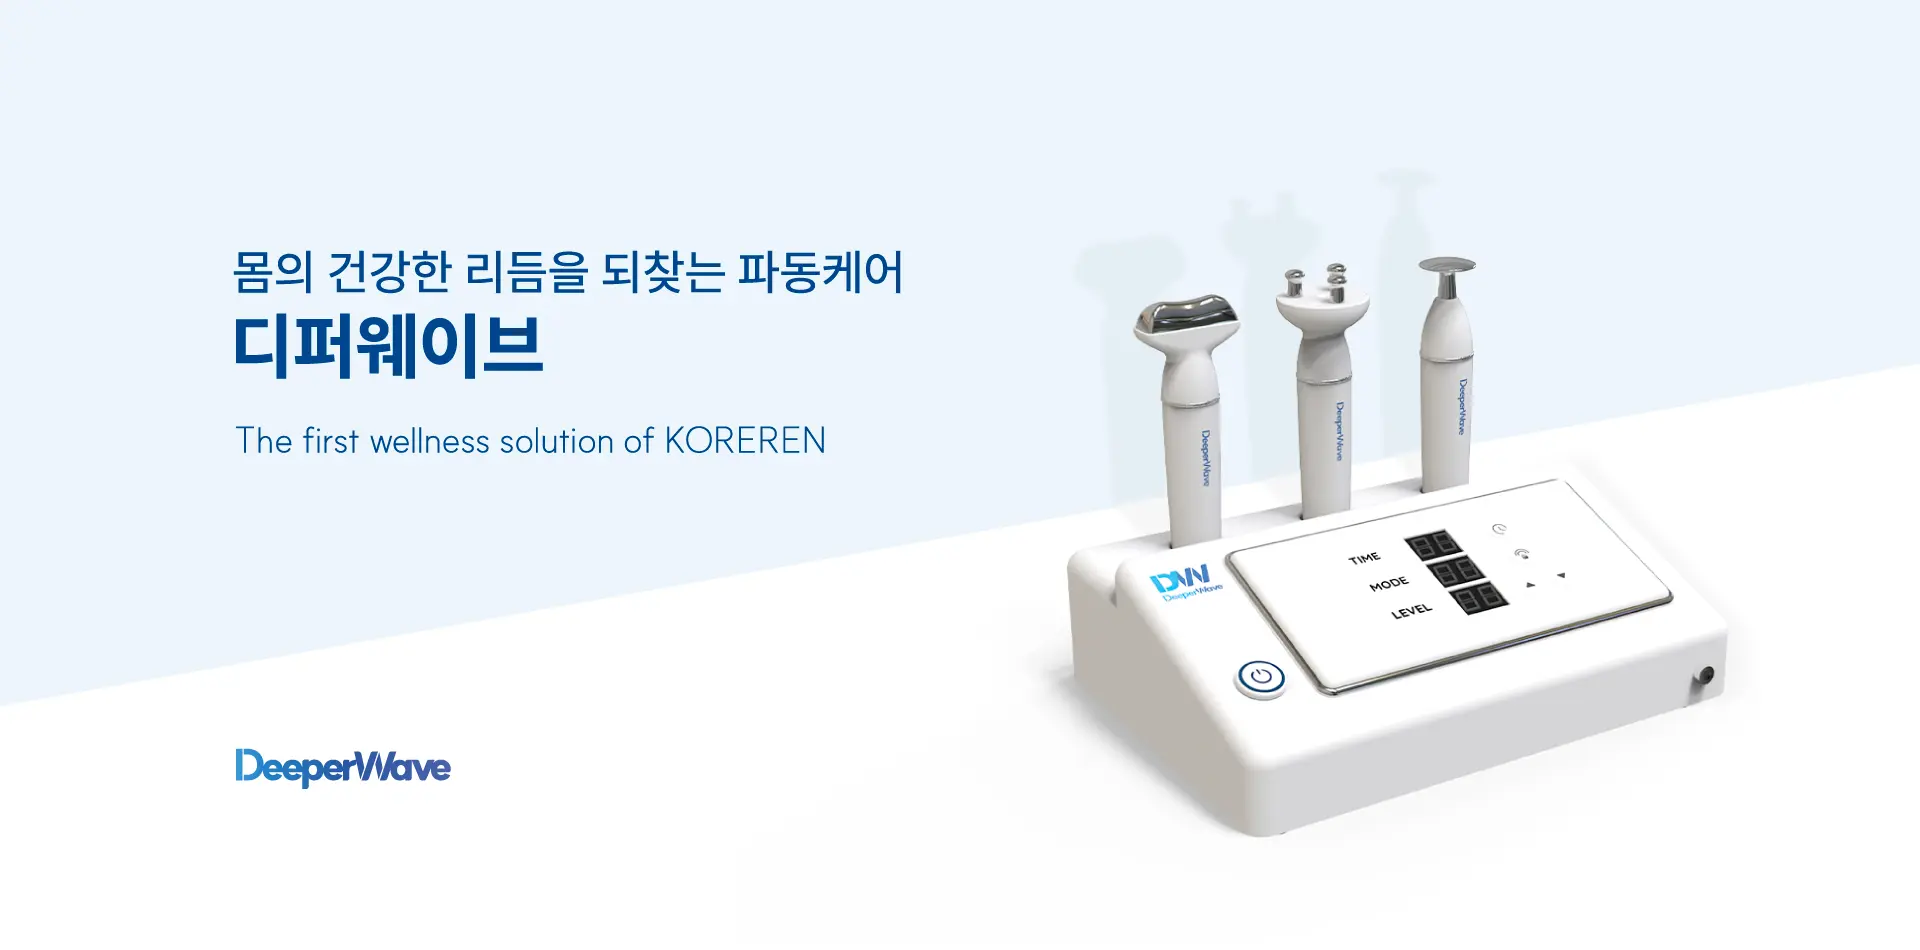
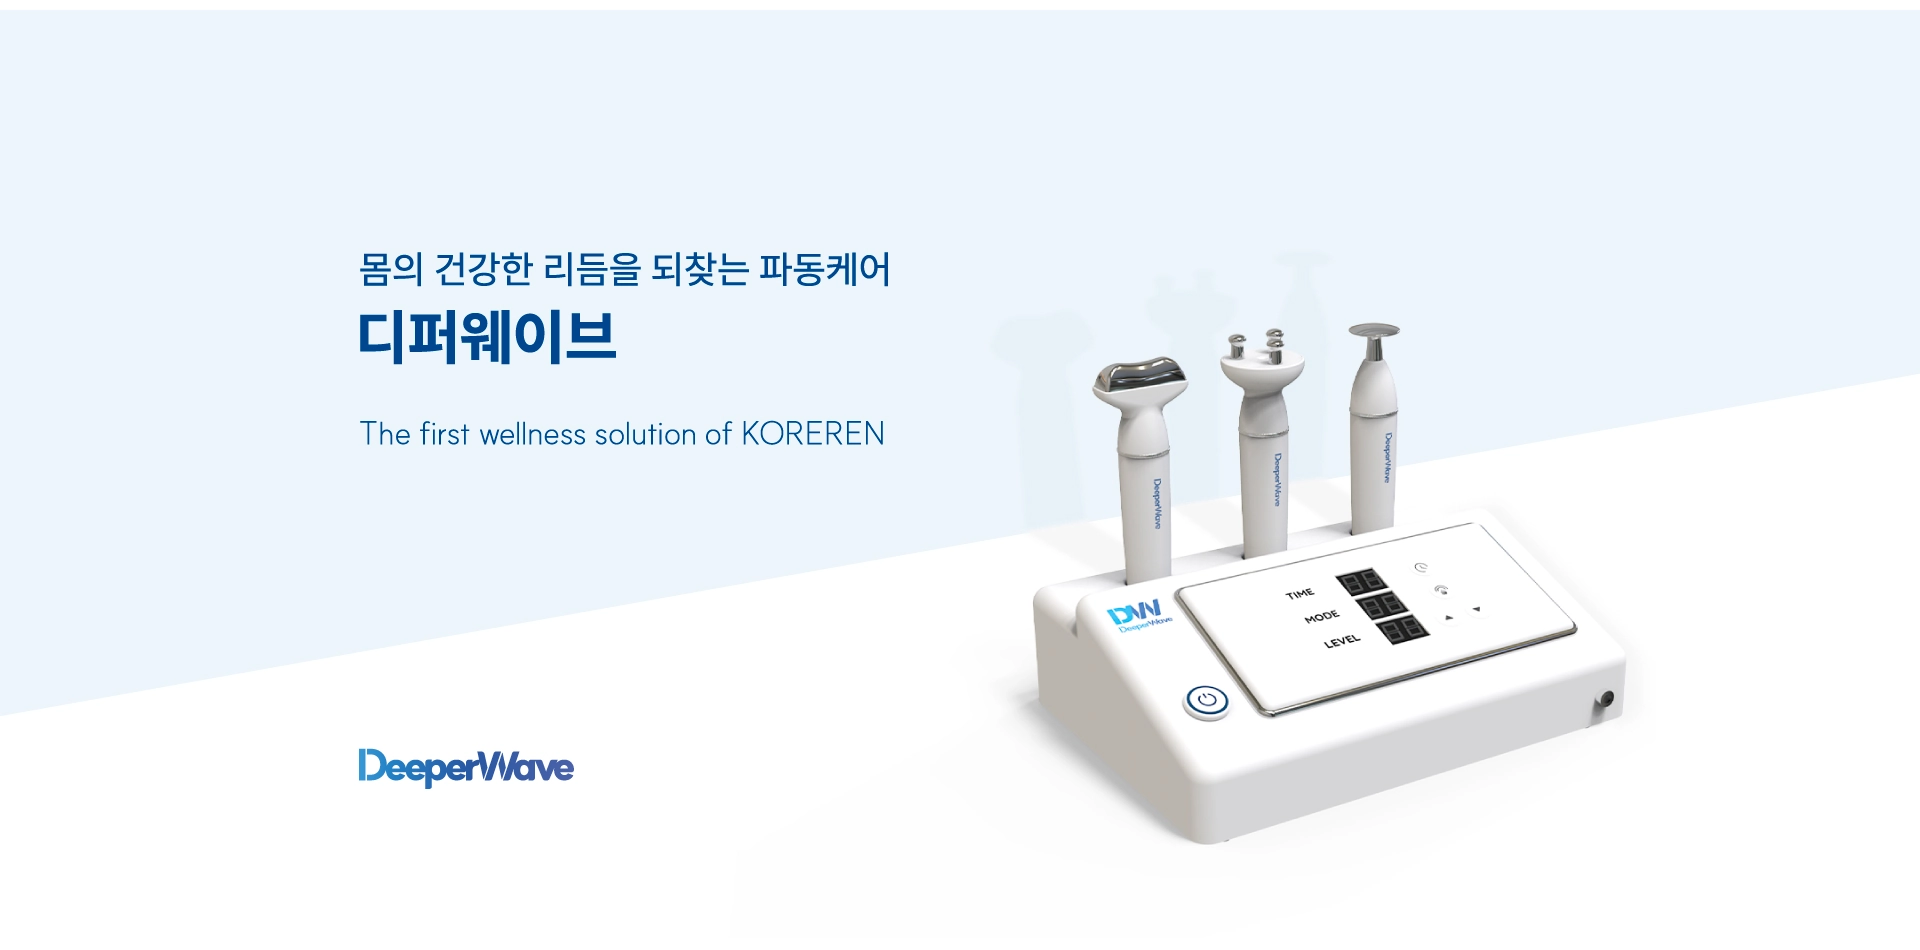
herosection update

diff --git a/client/src/sections/ProductSection.jsx b/client/src/sections/ProductSection.jsx
@@ -1,17 +1,17 @@
 // src/components/ProductSection.jsx
 import { Link } from "react-router-dom";
 import usePairCarousel from "../hooks/usePairCarousel";
-import prd1 from "../assets/images/product/banner_portrait(1000x1333).webp";
-import prd2 from "../assets/images/product/banner_prd_1.webp";
-import prd3 from "../assets/images/product/banner_prd_2.webp";
-import prd4 from "../assets/images/product/banner_prd_3.webp";
-import prd5 from "../assets/images/product/banner_prd_4.webp";
+import prd1 from "../assets/images/product/deeperwaveFront.webp";
+import prd2 from "../assets/images/product/headfit.webp";
+import prd3 from "../assets/images/product/wavefit.webp";
+import prd4 from "../assets/images/product/allfit.webp";
+import prd5 from "../assets/images/product/conductiveGel.webp";
 
 const items = [
-  { src: prd2, title: "핸드피스 올핏", link: "/products/allfit" },
-  { src: prd3, title: "핸드피스 헤드핏", link: "/products/headfit" },
-  { src: prd4, title: "핸드피스 집중핏", link: "/products/focusfit" },
-  { src: prd5, title: "DEEPERWAVE", link: "/products/deeperwave" },
+  { src: prd2, title: "핸드피스 헤드핏", link: "/products" },
+  { src: prd3, title: "핸드피스 웨이브핏", link: "/products" },
+  { src: prd4, title: "핸드피스 올핏", link: "/products" },
+  { src: prd5, title: "디퍼웨이브 컨덕티브 젤", link: "/products" },
 ];
 
 export default function ProductSection() {

diff --git a/client/src/pages/partners/PartnersList.jsx b/client/src/pages/partners/PartnersList.jsx
@@ -115,7 +115,7 @@ export default function PartnersList() {
   return (
     <div className="container max-w-7xl mx-auto px-4 py-10">
       <h1 className="text-2xl md:text-3xl lg:text-5xl font-semibold text-center md:text-left">
-        PARTBERS
+        PARTNERS
       </h1>
       <p className="mt-2 text-[14px] md:text-base lg:text-[23px] text-gray-600 text-center md:text-left">
         코어렌의 가치를 함께 전하는 매장들을 소개해드리겠습니다.

diff --git a/client/src/sections/HeroSection.jsx b/client/src/sections/HeroSection.jsx
@@ -40,7 +40,7 @@ export default function HeroSection() {
   const baseLen = slides.length;
 
   return (
-    <section className="relative h-auto lg:h-screen -mt-[90px] overflow-hidden select-none bg-black">
+    <section className="relative h-auto lg:h-screen -mt-[20px] lg:-mt-[90px] overflow-hidden select-none bg-black">
       <div
         ref={trackRef}
         className="flex will-change-transform lg:absolute lg:inset-0"
